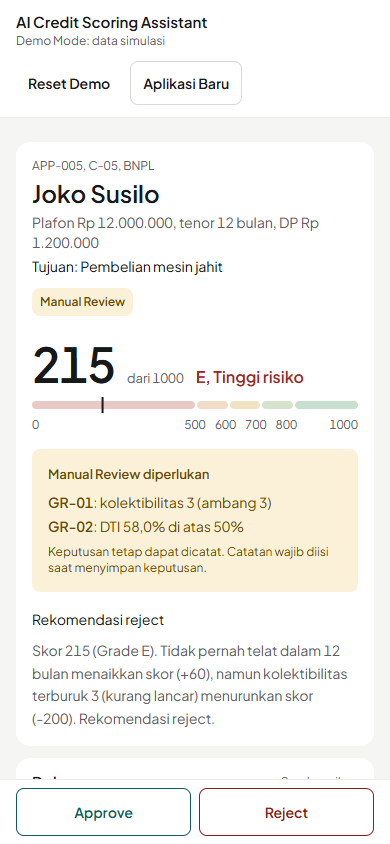
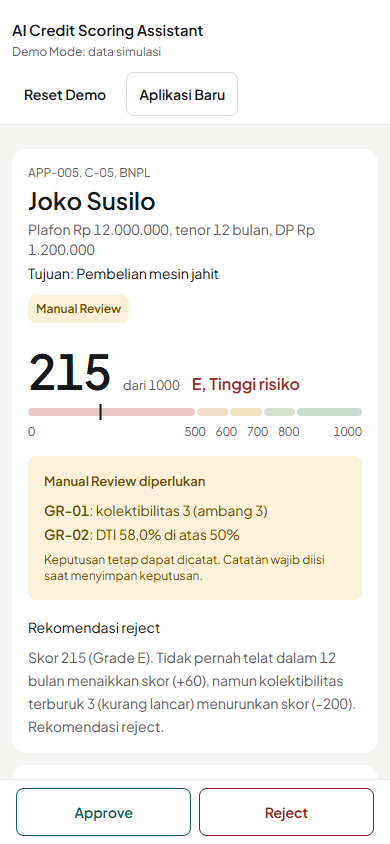
docs: sync TRD, PRD, and screenshots with design v2 components

Changed region(s): [[0.0615, 0.1848, 0.9538, 0.8934], [0.0308, 0.0, 0.6154, 0.1232]]

diff --git a/01_documents/TRD-AI-Credit-Scoring.md b/01_documents/TRD-AI-Credit-Scoring.md
@@ -122,12 +122,13 @@ Tidak ada dependensi UI, chart, tanggal, atau validasi tambahan. Versi paket dik
     sw.js
     icons/
   app/
-    layout.tsx               root layout + demo banner
+    layout.tsx               root layout + font
     page.tsx                 Queue
     new/page.tsx             Form aplikasi baru
     application/page.tsx     Detail (client, baca ?id=)
     manifest.ts              metadata manifest
     globals.css              token + Tailwind
+    fonts/                   Plus Jakarta Sans (lokal)
     api/
       applications/route.ts
       applications/[id]/route.ts
@@ -137,10 +138,12 @@ Tidak ada dependensi UI, chart, tanggal, atau validasi tambahan. Versi paket dik
       profiles/route.ts
       reset/route.ts
   components/
-    app-header.tsx
-    demo-banner.tsx
+    app-header.tsx           header + label Demo Mode
+    application-detail.tsx
     queue-table.tsx
     score-badge.tsx
+    score-scale.tsx
+    rupiah-input.tsx
     status-badge.tsx
     confidence-chip.tsx
     factor-bar.tsx
@@ -406,7 +409,8 @@ Jika tidak ada faktor negatif, gunakan kalimat positif saja.
 | `AppHeader` | Judul, label demo, reset, navigasi |
 | `QueueTable` | Tabel desktop / kartu mobile |
 | `ScoreBadge` | Skor + grade, teks selalu ada |
-| `StatusBadge` | Status aplikasi |
+| `StatusBadge` | Status aplikasi; `variant` `chip` (mobile) atau `text` (tabel desktop) |
+| `ScoreScale` | Skala skor 0 sampai 1000 dengan pita grade dan penanda skor |
 | `ConfidenceChip` | Persen + penanda < 80% |
 | `FactorBar` | Bar +/− dengan poin dan label |
 | `GuardrailBanner` | Daftar aturan yang terpicu |
@@ -583,7 +587,7 @@ npm run start      # jalankan hasil build
 | Perbedaan Tailwind v4 vs v3 | Ikuti setup `create-next-app`; jangan campur konfigurasi |
 | PWA tidak dianggap "mobile app" oleh penilai | Catat interpretasi di QA report dan presentasi |
 | Browser Playwright gagal diunduh | Unit test tetap berjalan; E2E manual didokumentasikan |
-| Data demo dianggap nyata | Banner permanen + data fiktif |
+| Data demo dianggap nyata | Label Demo Mode permanen + data fiktif |
 | Scope melebar | Tidak ada DB/OCR/ML; perubahan scope harus mengubah PRD |
 
 ---

diff --git a/01_documents/PRD-AI-Credit-Scoring.md b/01_documents/PRD-AI-Credit-Scoring.md
@@ -207,14 +207,15 @@ Form satu halaman:
 
 ### 8.3 Detail Aplikasi
 
-Header: nama, ID, skor besar, badge grade, status, banner Demo Mode.
+Header: nama, ID, skor besar, badge grade, status. Label Demo Mode ada di header aplikasi.
 
 Urutan bagian:
 
 1. **Ringkasan**
-   - Skor 0–1000, grade, rekomendasi plafon dan tenor.
+   - Skor 0–1000, grade, dan skala skor.
+   - Banner guardrail bila ada, tepat di bawah skor dan skala.
+   - Rekomendasi plafon dan tenor.
    - Narasi 2–3 kalimat.
-   - Banner guardrail bila ada.
 2. **Dokumen**
    - Daftar file yang diunggah (nama file, jenis).
    - Field ekstraksi: label, nilai, confidence (hijau ≥ 0,80; kuning < 0,80).
